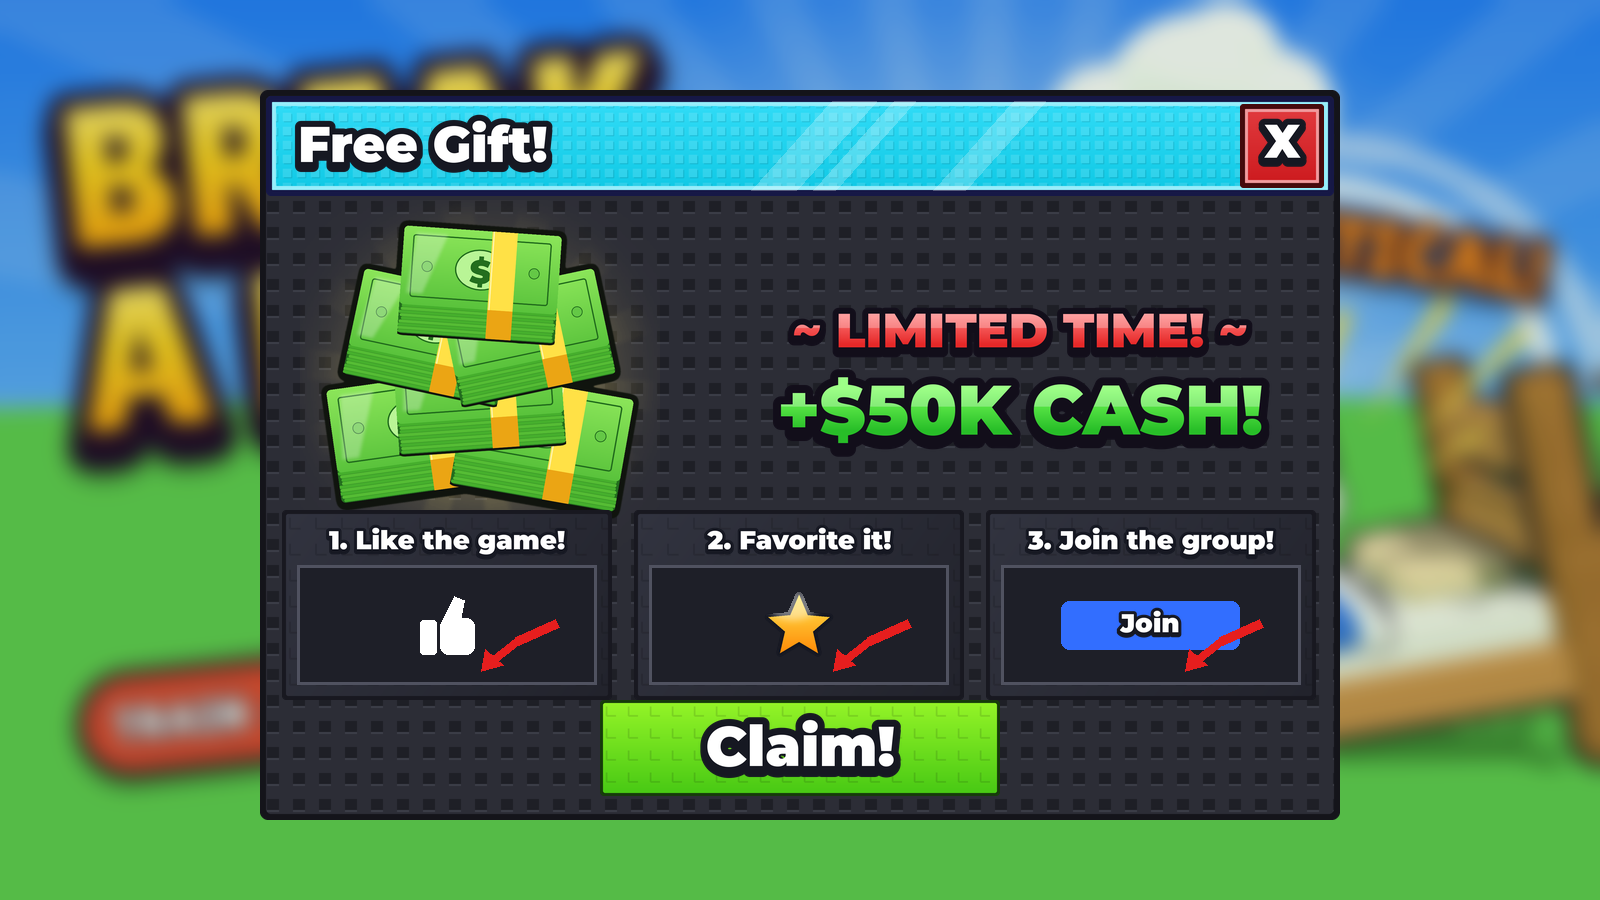
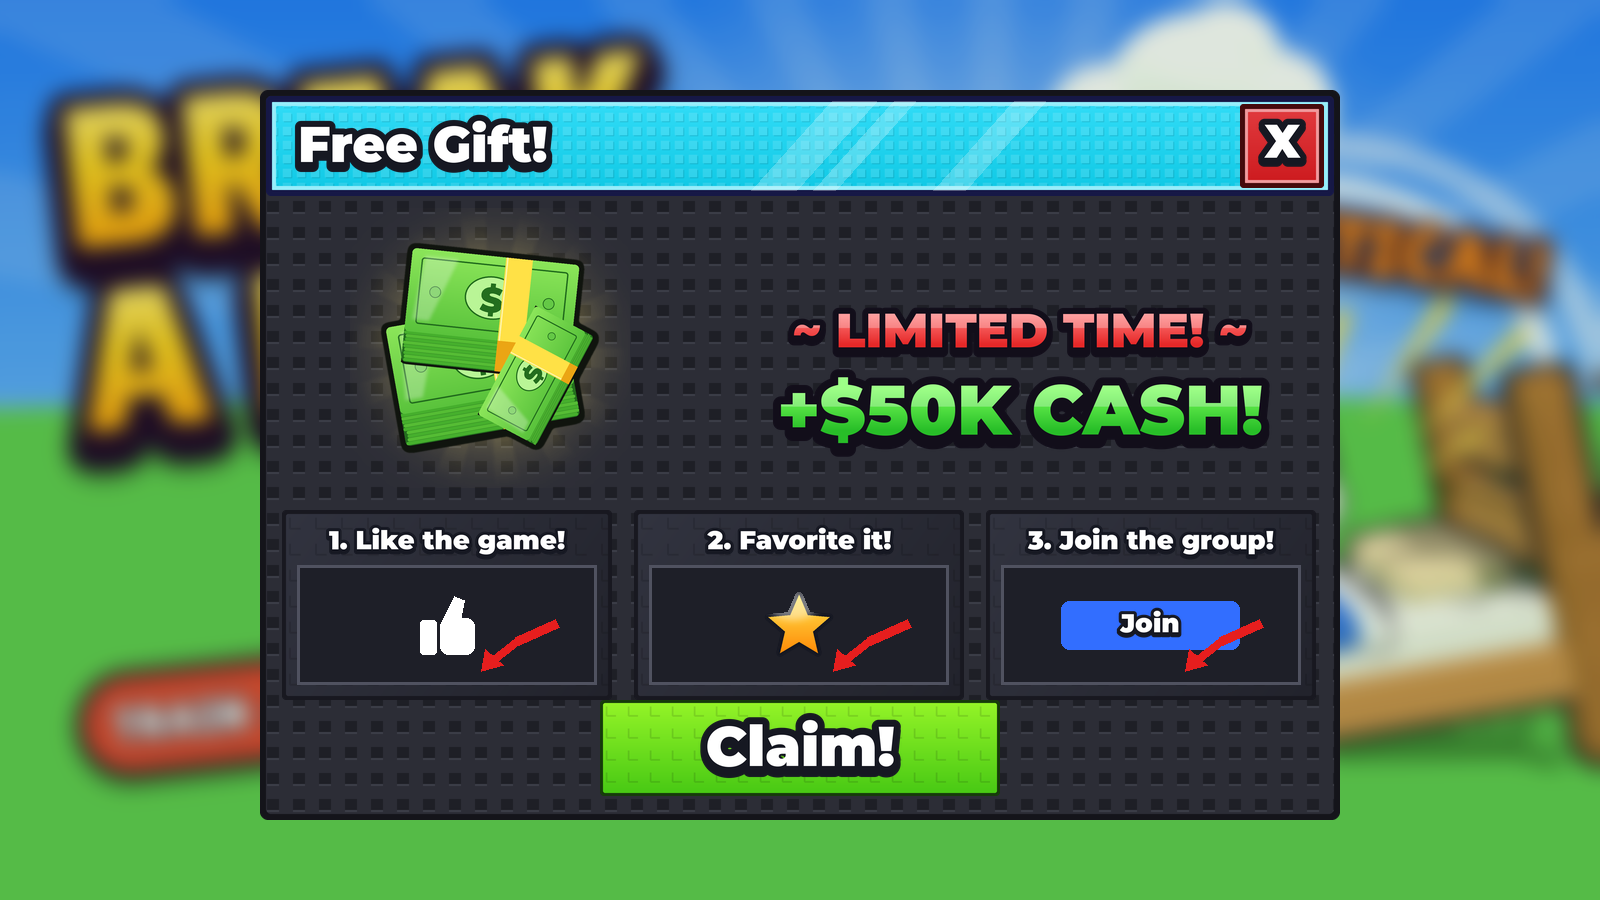
Break A Bed: smaller cash picture on the Free Gift popup
Claude-Session: https://claude.ai/code/session_016uvrS3Ui1ijFbyufuEdzSK

Changed region(s): [[0.1875, 0.2489, 0.4062, 0.5911]]

diff --git a/Break A Bed/UI Kit/source/freegift.py b/Break A Bed/UI Kit/source/freegift.py
@@ -14,10 +14,10 @@ def popup(bgpath, out):
     img.alpha_composite(shop3.window(ww, wh), (x0, y0))
     img.alpha_composite(sim.header(ww - 12, 100, 'cyan', 'Free Gift!'), (x0 + 6, y0 + 6))
     img.alpha_composite(kit.x_mark(sim.sbox(84, 84, 'red', radius=0.04, cell=40, stud=(0, 0))), (x0 + ww - 100, y0 + 14))
-    hero = Image.new('RGBA', (360, 360), (0, 0, 0, 0))
-    hero.alpha_composite(A.burst(360, (255, 230, 120), 14, 70))
-    hero.alpha_composite(art.cash_pile(320, 5), (20, 10))
-    img.alpha_composite(hero, (x0 + 40, y0 + 110))
+    hero = Image.new('RGBA', (280, 280), (0, 0, 0, 0))
+    hero.alpha_composite(A.burst(280, (255, 230, 120), 14, 60))
+    hero.alpha_composite(art.cash_pile(220, 3), (30, 30))
+    img.alpha_composite(hero, (x0 + 90, y0 + 118))
     A.stroke_text(img, (x0 + 760, y0 + 240), '~ LIMITED TIME! ~', 48, (255, 120, 120), (230, 40, 40), anchor='mm')
     A.stroke_text(img, (x0 + 760, y0 + 320), '+$50K CASH!', 70, (120, 255, 90), (40, 190, 40), anchor='mm')
     steps = [('1. Like the game!', 'thumb'), ('2. Favorite it!', 'star'), ('3. Join the group!', 'group')]
